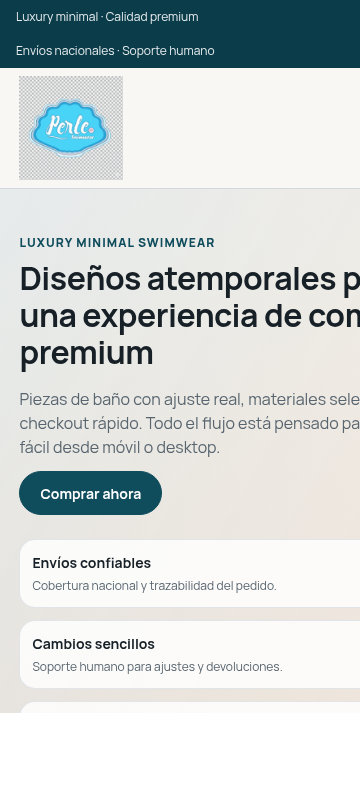
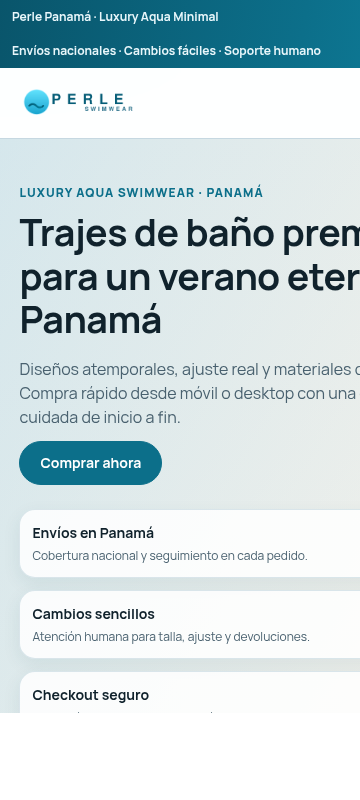
docs(ui): refresh screenshots and branding notes after recovery

diff --git a/ecommerce_perle/docs/screenshots/README.md b/ecommerce_perle/docs/screenshots/README.md
@@ -21,8 +21,9 @@ Si estás ejecutando localmente, puedes regenerarlas con:
 ```bash
 source .venv/bin/activate
 python manage.py runserver 127.0.0.1:8001
-chromium --headless --disable-gpu --screenshot=docs/screenshots/home_desktop.png --window-size=1440,1024 http://127.0.0.1:8001/
-chromium --headless --disable-gpu --screenshot=docs/screenshots/home_mobile360.png --window-size=360,800 http://127.0.0.1:8001/
-chromium --headless --disable-gpu --screenshot=docs/screenshots/admin-login.png --window-size=1440,1024 http://127.0.0.1:8001/admin/login/
-chromium --headless --disable-gpu --screenshot=docs/screenshots/admin-dashboard-premium.png --window-size=1440,1024 http://127.0.0.1:8001/admin/
+chromium --headless --disable-gpu --no-sandbox --screenshot=docs/screenshots/home_desktop.png --window-size=1440,1024 http://127.0.0.1:8001/
+chromium --headless --disable-gpu --no-sandbox --screenshot=docs/screenshots/home_mobile360.png --window-size=360,800 http://127.0.0.1:8001/
+chromium --headless --disable-gpu --no-sandbox --screenshot=docs/screenshots/admin-login.png --window-size=1440,1024 http://127.0.0.1:8001/admin/login/
 ```
+
+`admin-dashboard-premium.png` requiere sesión autenticada de admin.

diff --git a/ecommerce_perle/README.md b/ecommerce_perle/README.md
@@ -2,7 +2,8 @@
 
 Aplicación Django + DRF para catálogo, carrito, checkout y operación interna con panel admin premium.
 
-Branding activo: logo oficial del negocio (`static/brand/perle-logo.png`) y favicon (`static/brand/favicon.png`) en storefront + admin.
+Branding activo: wordmark temporal limpio (`static/brand/perle-wordmark.png`) y favicon monograma (`static/brand/favicon.png`) en storefront + admin.
+Cuando se reciba el logo oficial transparente final, se reemplaza este asset sin cambios de lógica.
 
 ## Stack
 - Django 5.x + DRF
